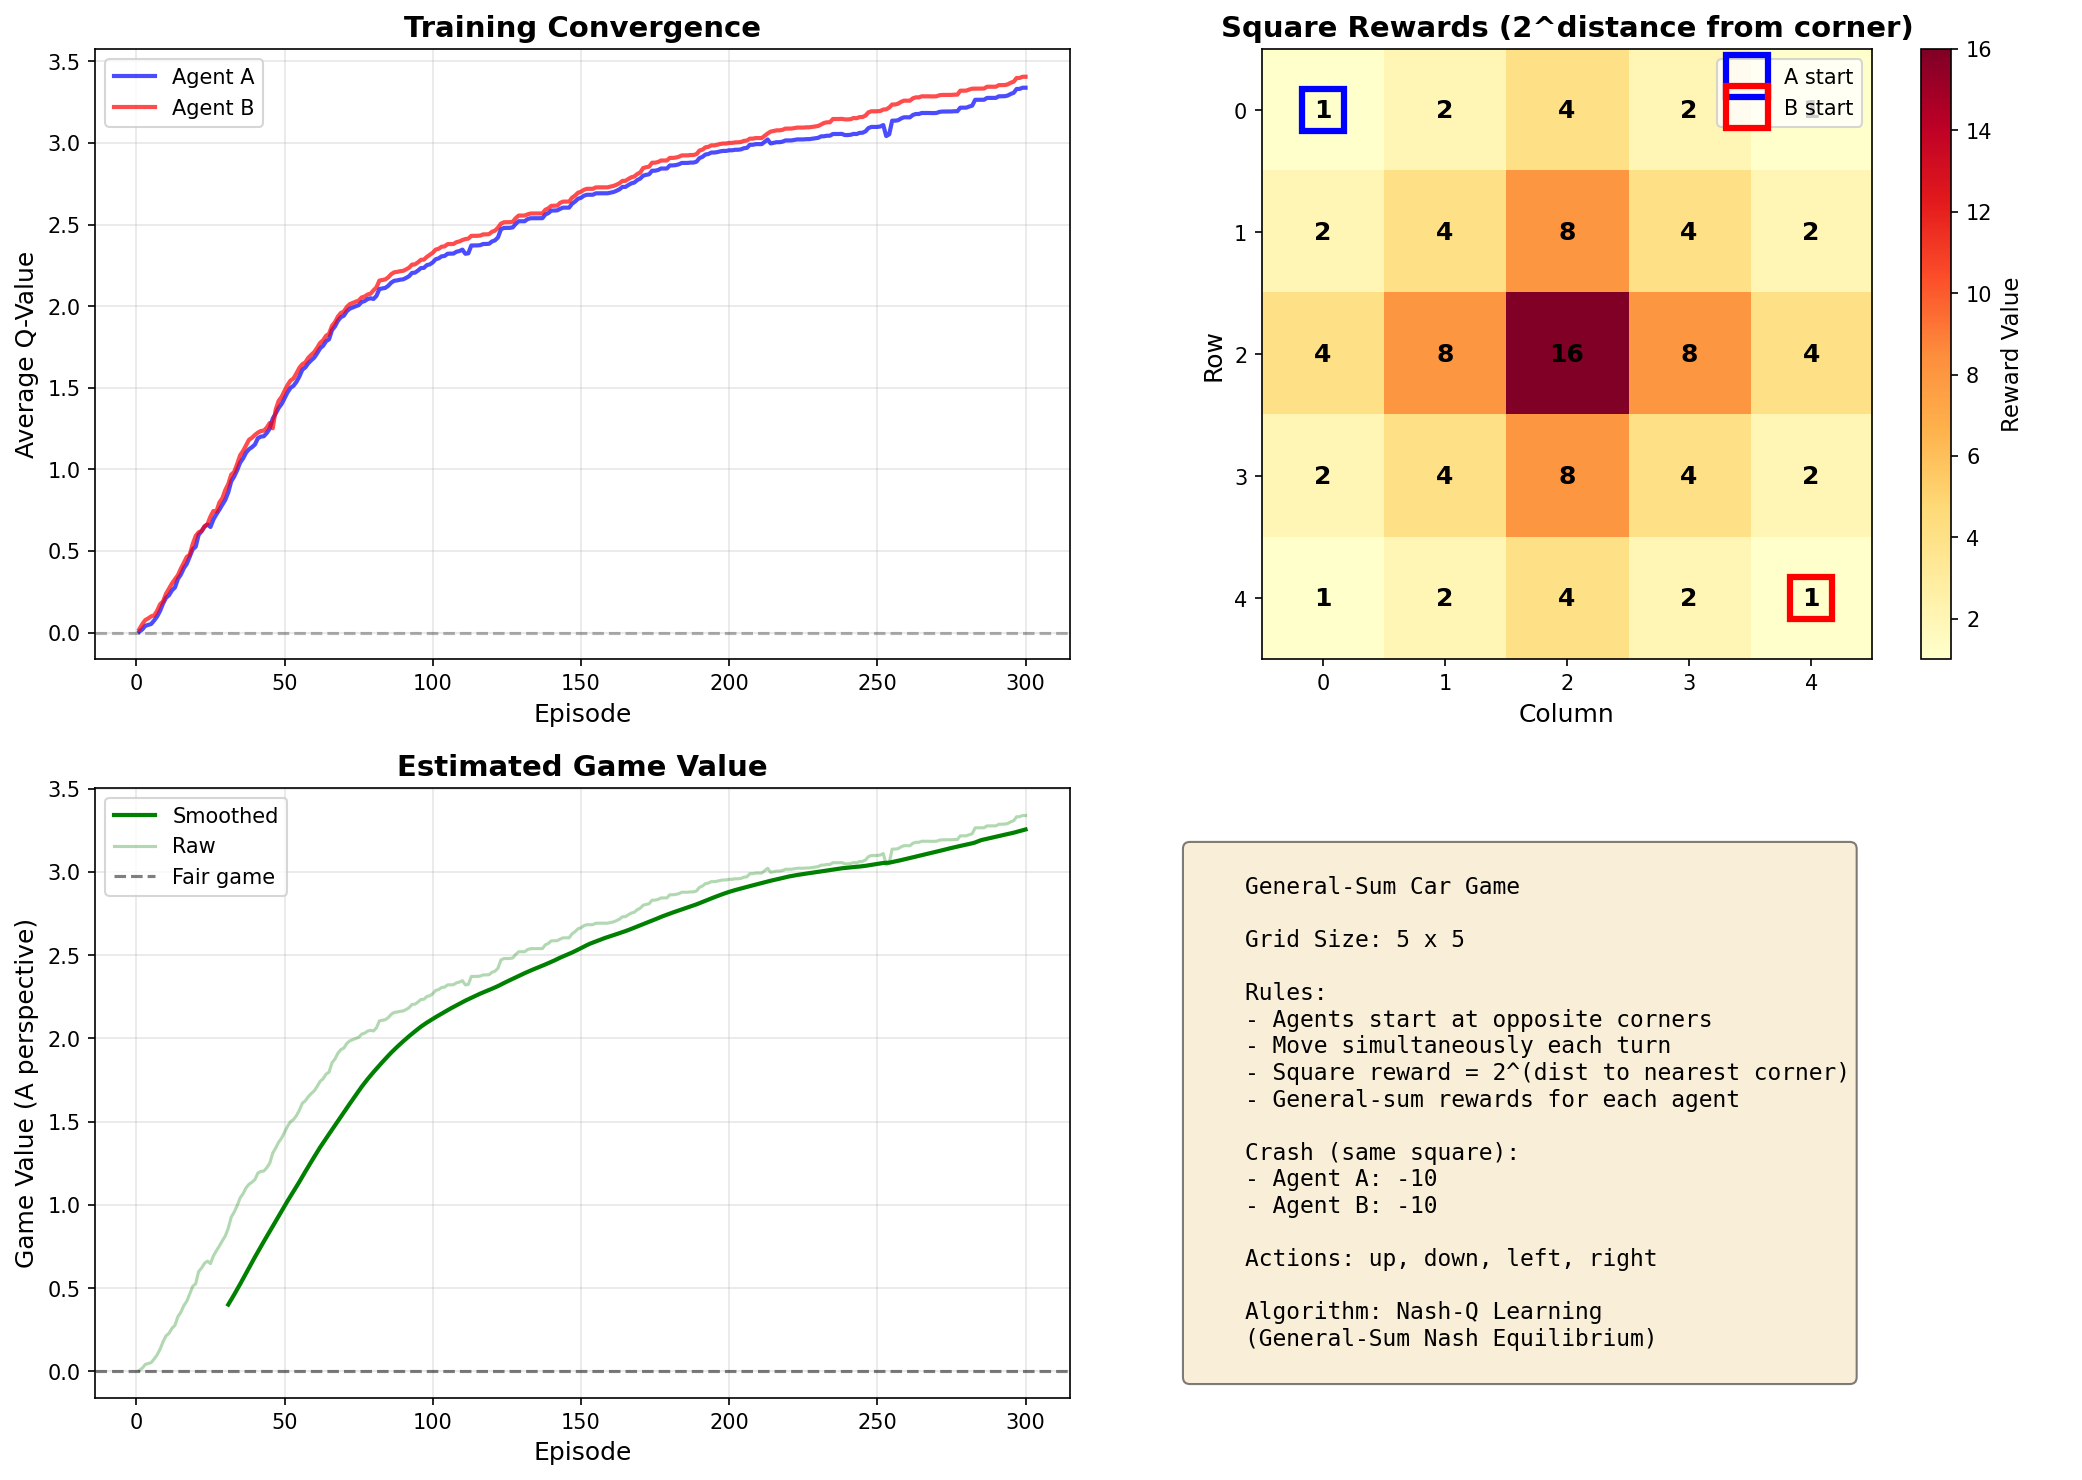
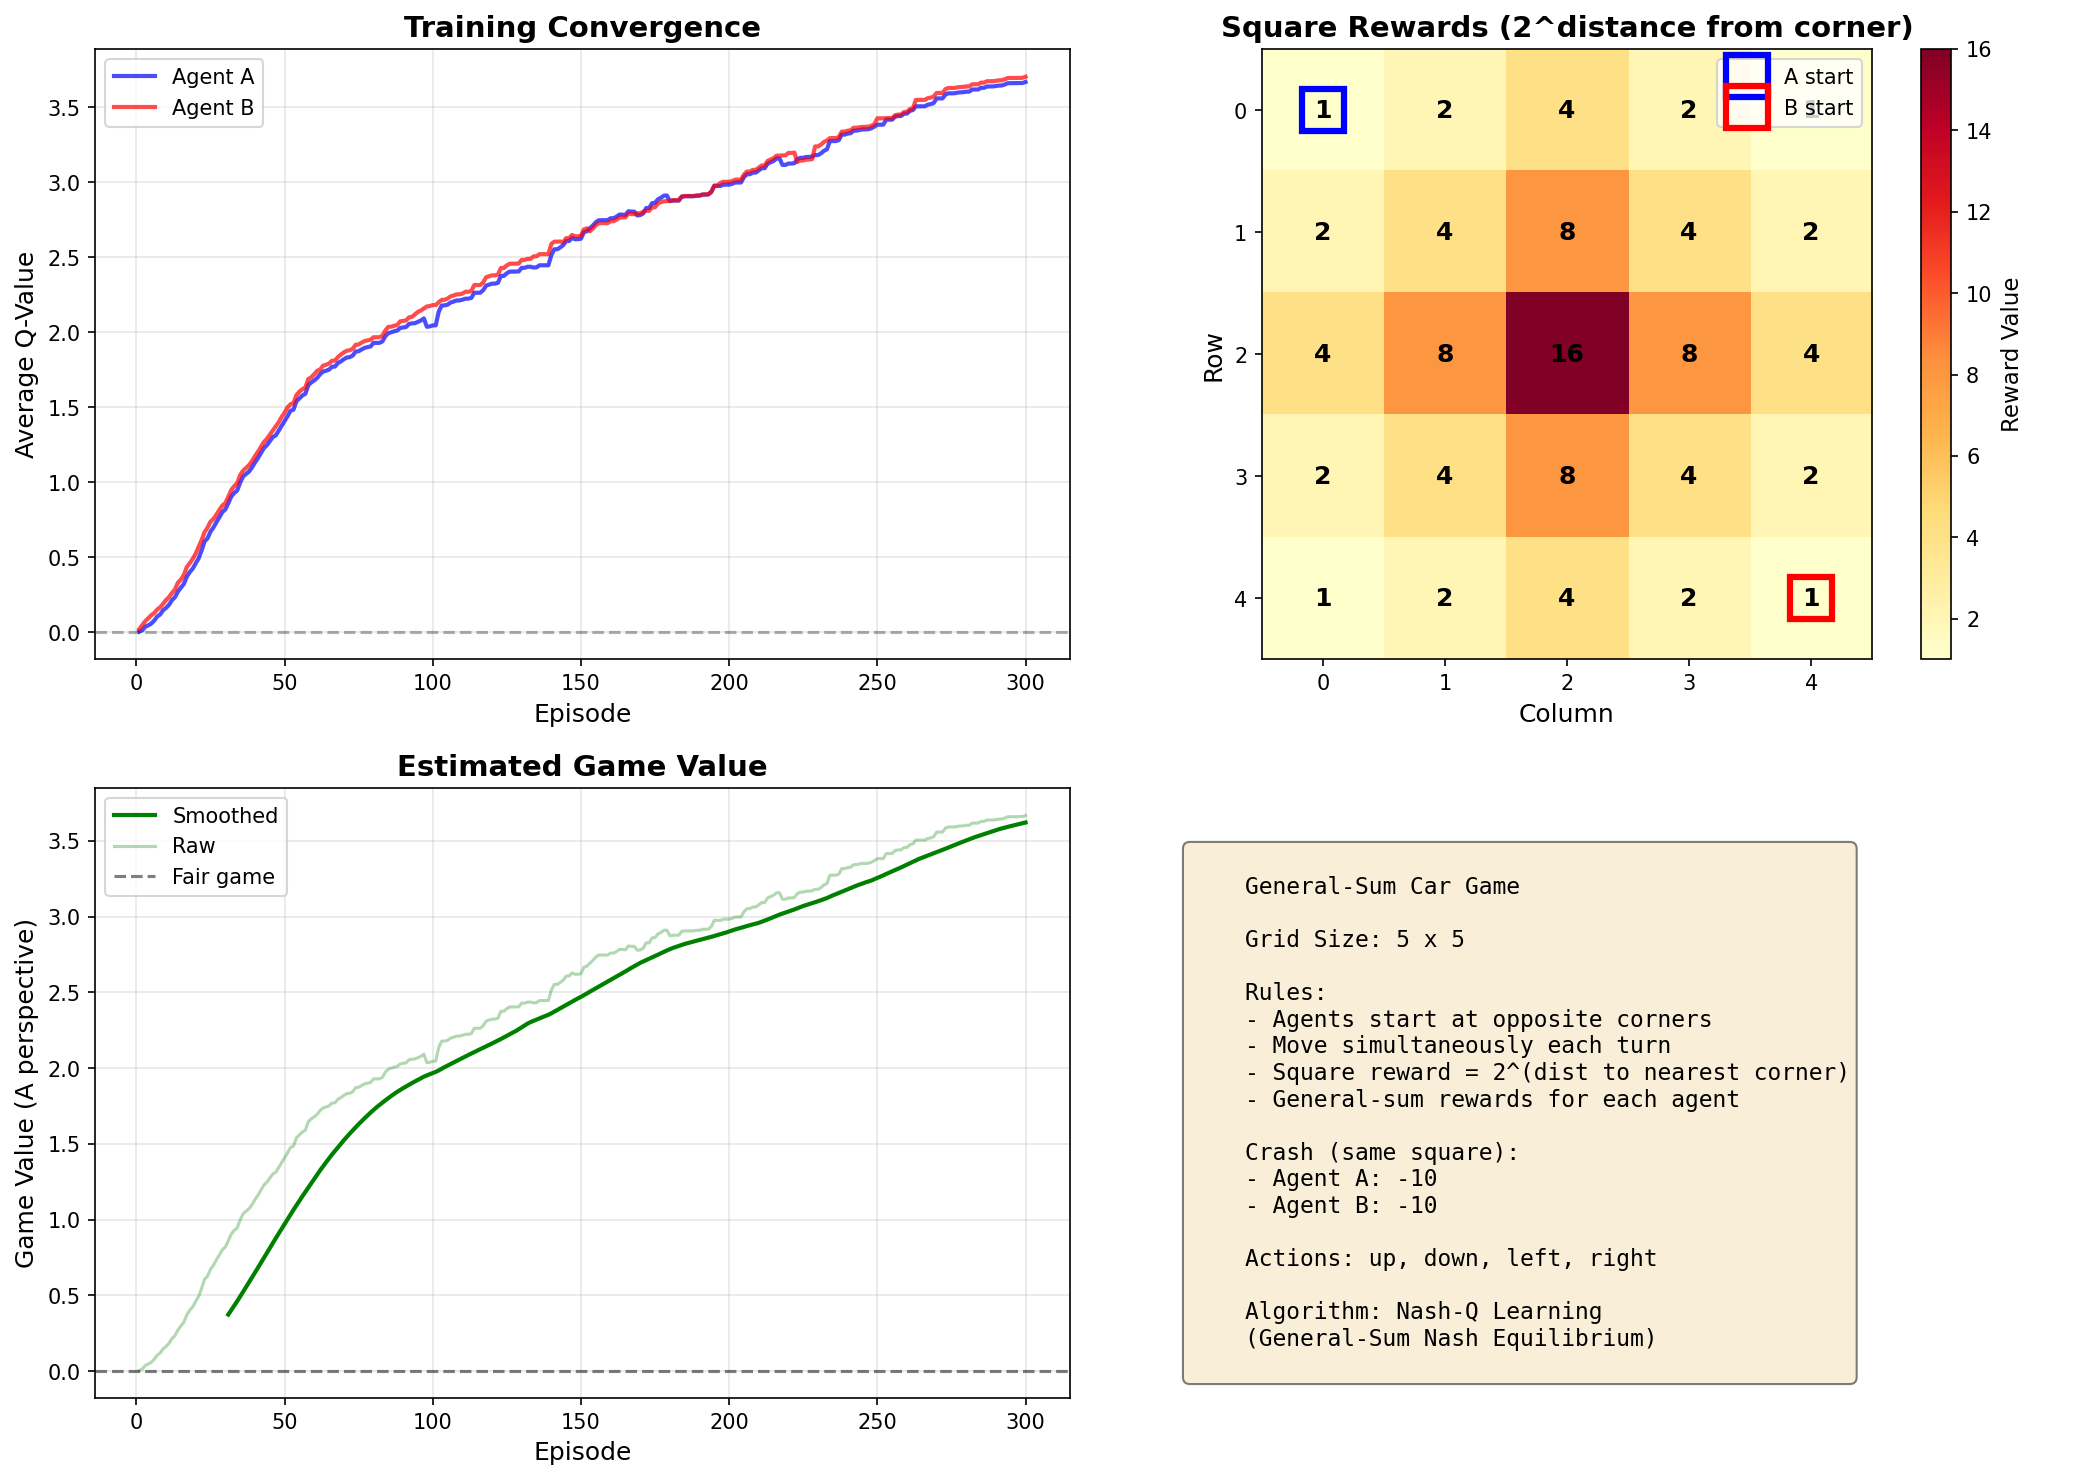
ok

diff --git a/CarGame/config.py b/CarGame/config.py
@@ -1,4 +1,4 @@
-GRID_SIZE = 5
+GRID_SIZE = 9
 ACTIONS = ['up', 'down', 'left', 'right']
 AGENT_A_START = (0, 0)
 CRASH_REWARD = 10
